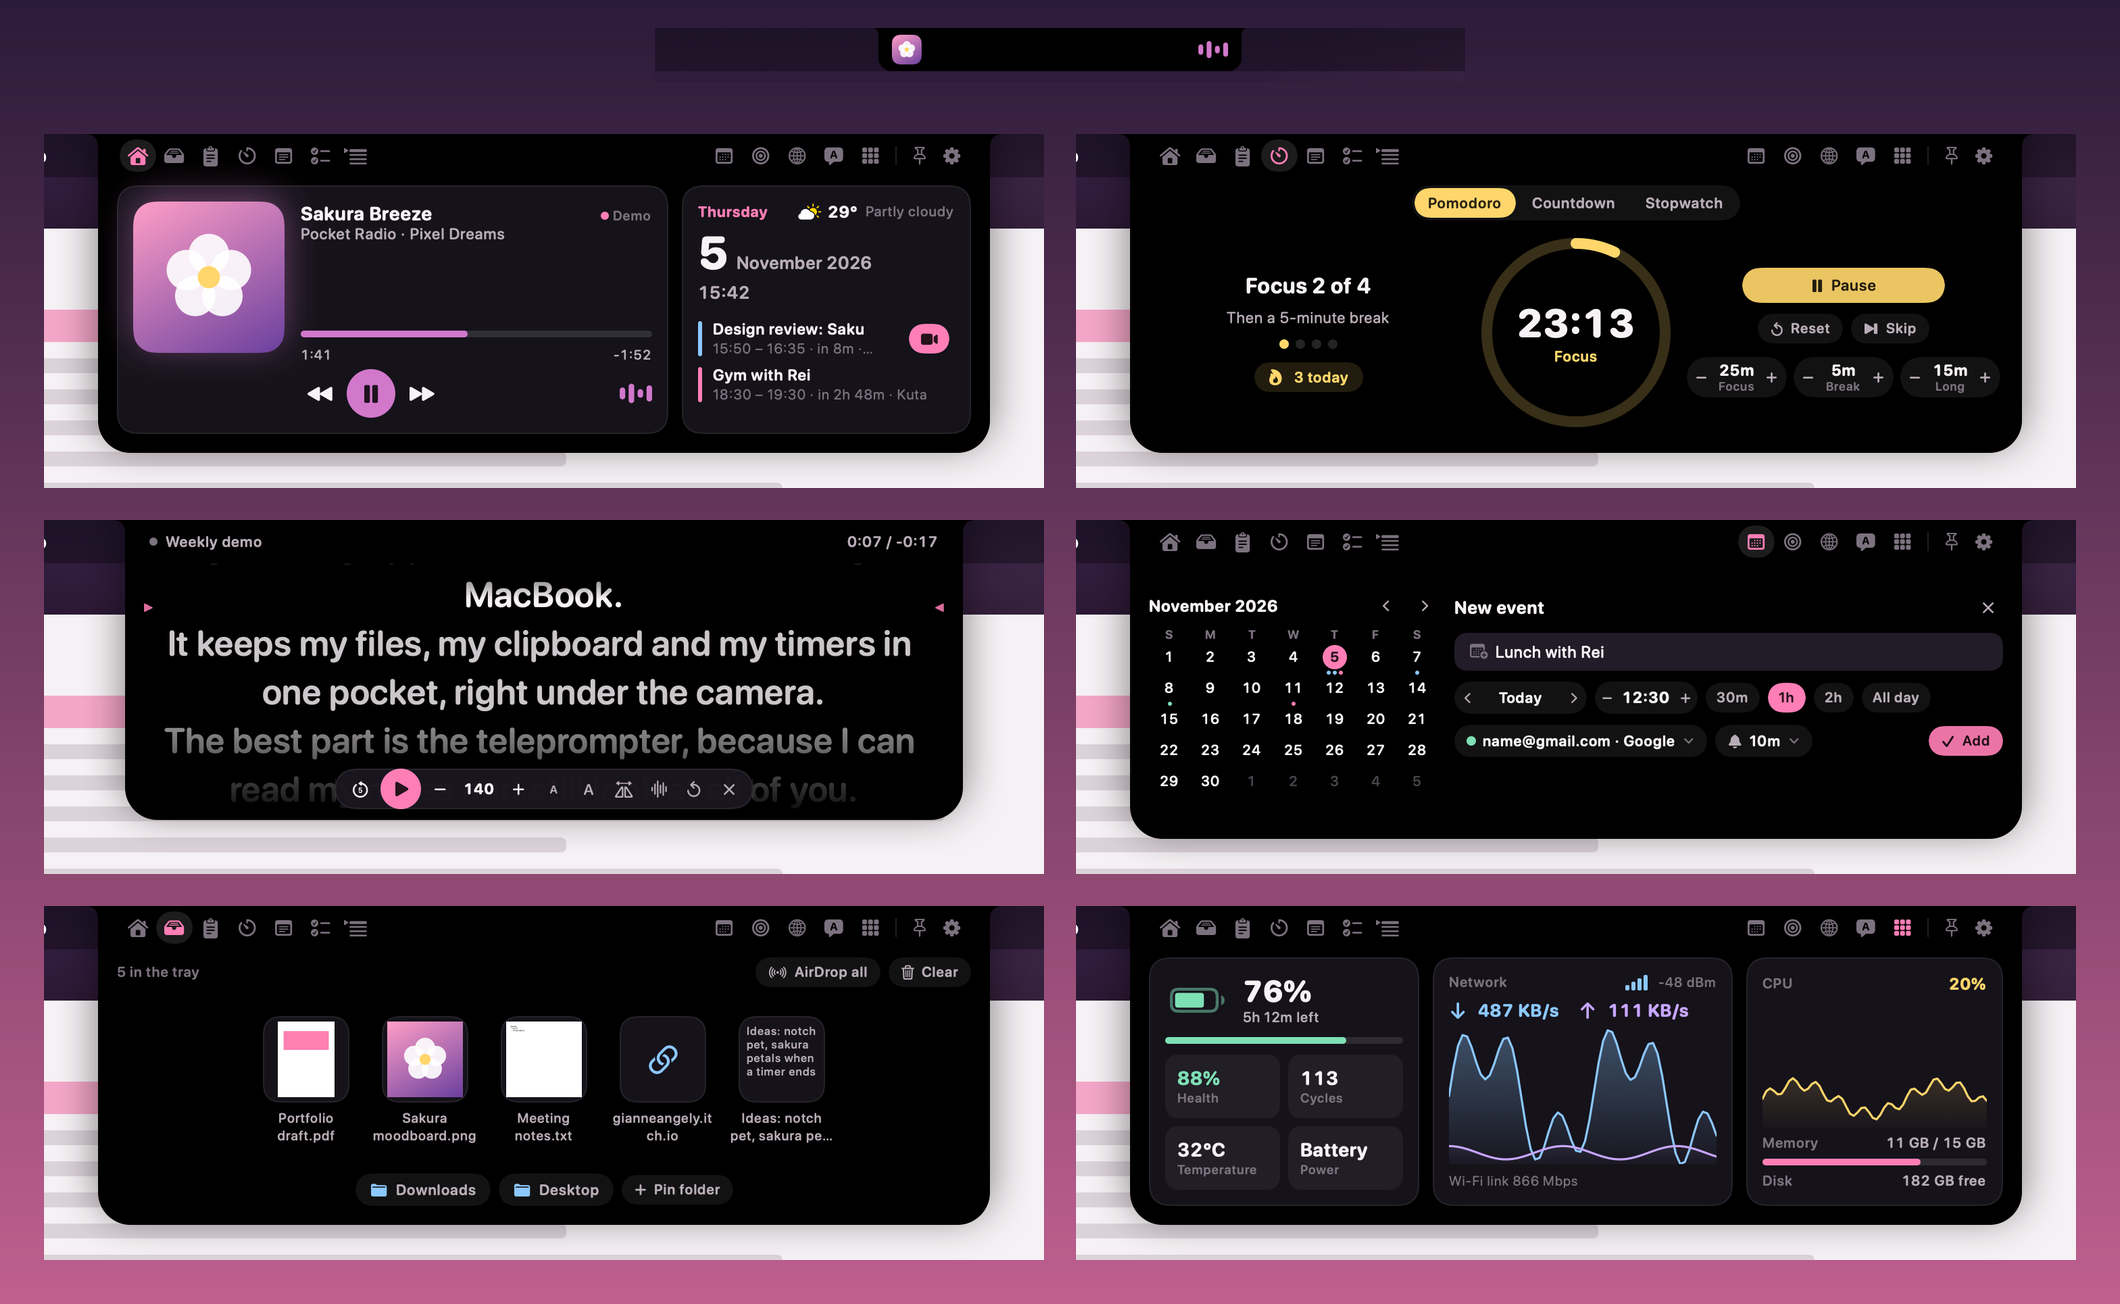
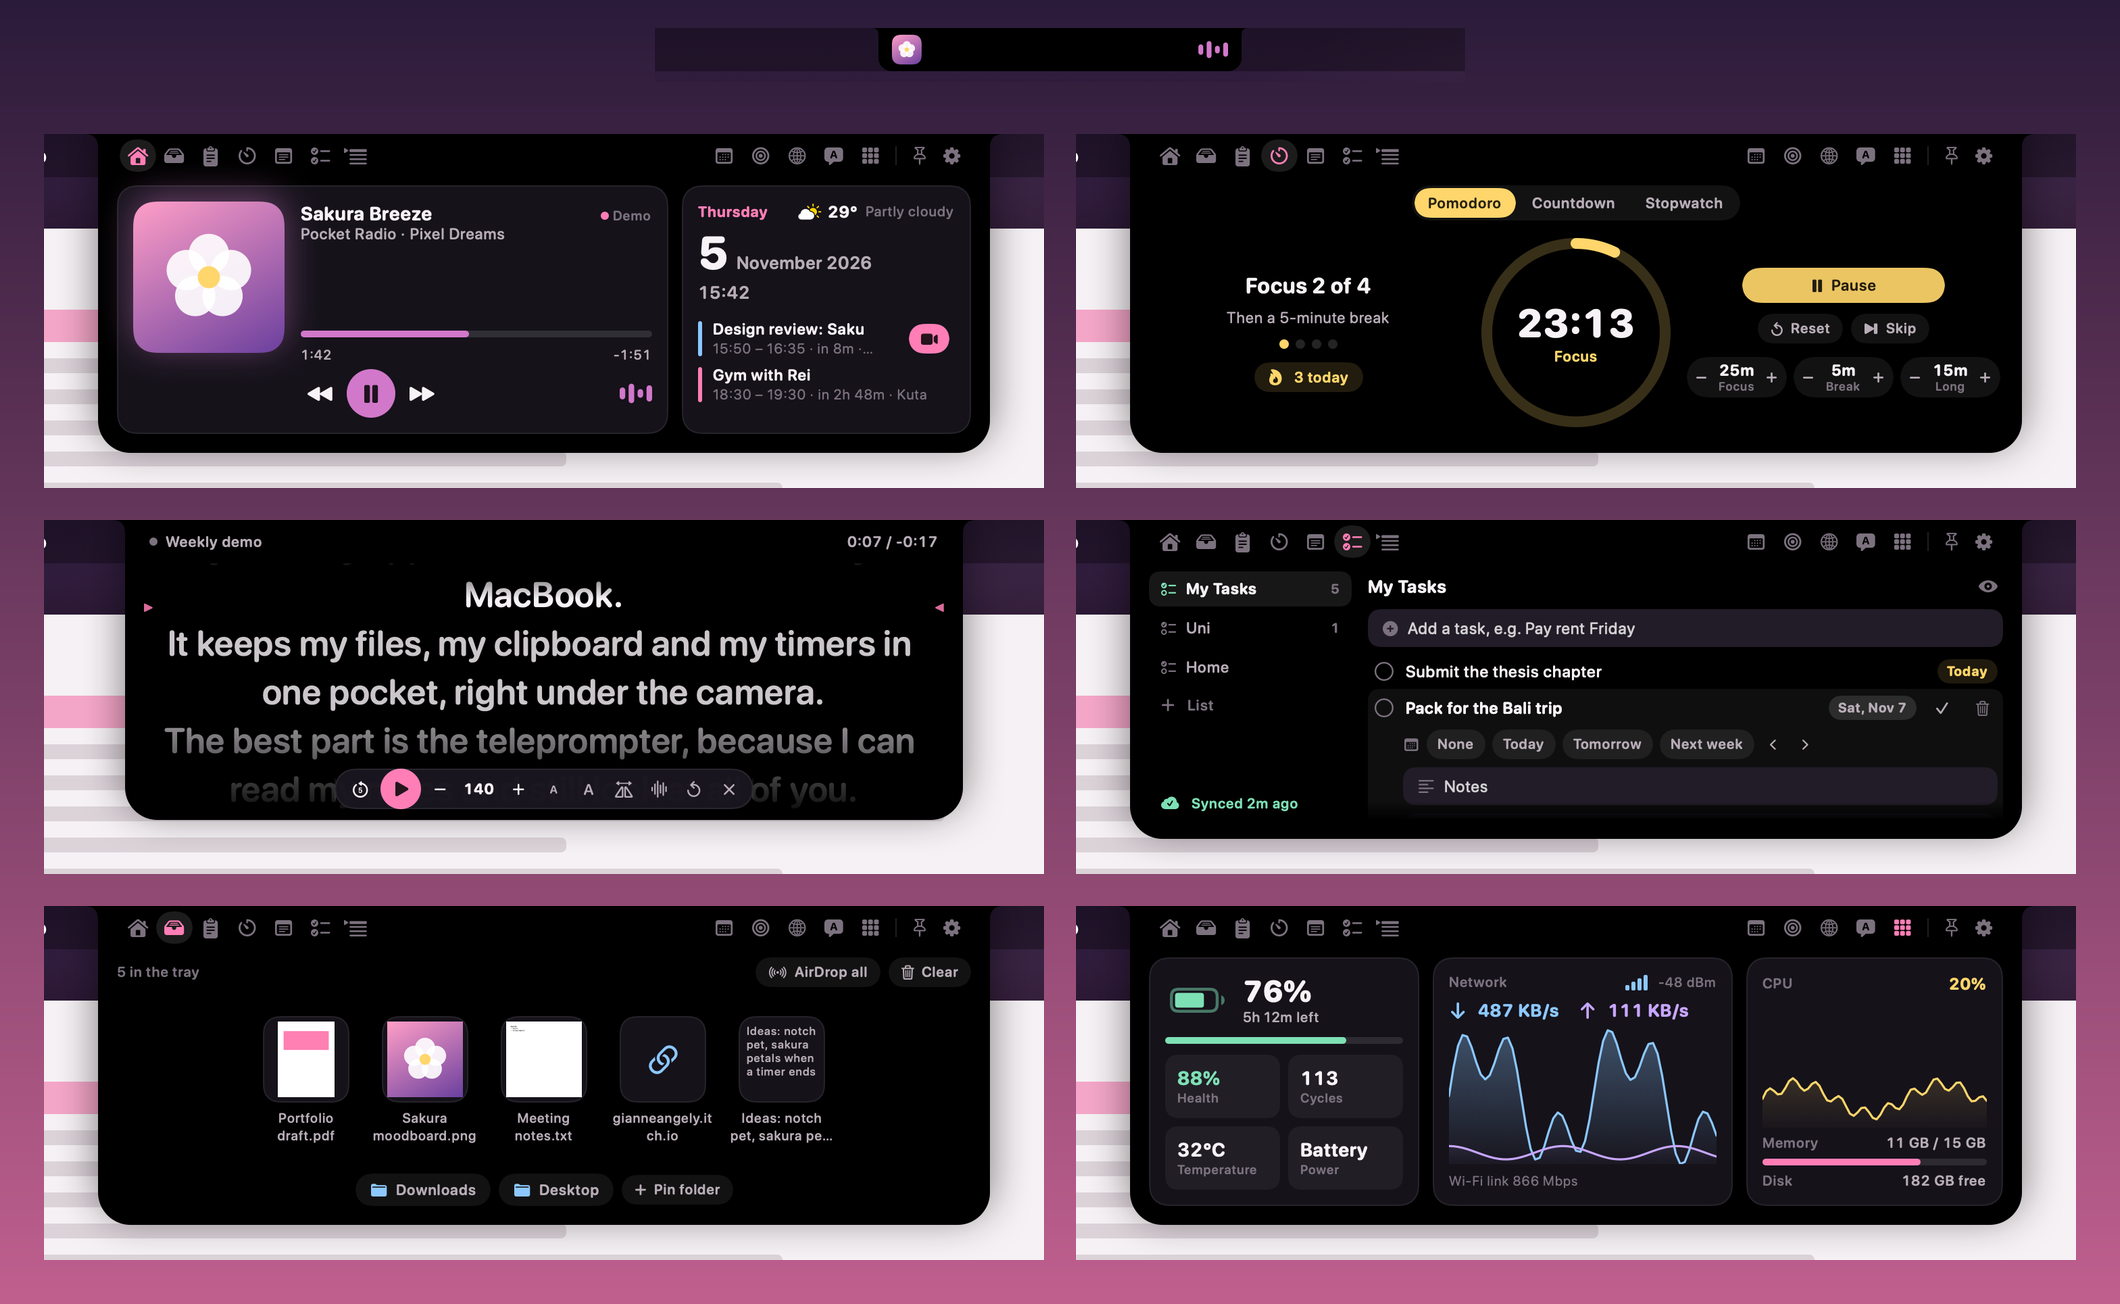
Get the README ready for launch
The README mentions the to-do list and Google Tasks, links the website
and privacy policy, explains the 7-day sign-in in Testing mode, and
stops naming an old zip. The screenshot swaps the new-event tile for
the To-do tab synced with Google. SECURITY.md says the Google sign-in
tokens live in the Keychain too, and the 1.2.1 notes mention the
updated setup guide.

Changed region(s): [[0.5292, 0.3988, 0.9651, 0.6442], [0.5604, 0.6135, 0.6226, 0.6442], [0.8094, 0.3988, 0.8406, 0.4294]]

diff --git a/tools/make-previews.py b/tools/make-previews.py
@@ -29,7 +29,7 @@ for n in settings:
     Image.open(os.path.join(src, n + ".png")).convert("RGB").save(os.path.join(out, n + ".png"))
 
 # 2. README screenshot: six states on a soft backdrop, 2 columns.
-picks = ["open-home-full", "open-timers-pomodoro", "prompter-reading", "open-calendar-new-event", "open-tray", "open-system"]
+picks = ["open-home-full", "open-timers-pomodoro", "prompter-reading", "open-todo-google", "open-tray", "open-system"]
 TW, TH = 1000, 354           # each tile, about 2048 px wide in all
 tiles = [crop(n, 370, 262).resize((TW, TH), Image.LANCZOS) for n in picks]
 gap, pad = 32, 44

diff --git a/README.md b/README.md
@@ -1,24 +1,25 @@
 # 🌸 Saku
 
-Saku turns the MacBook notch into **a little pocket of tools**. Hover the camera and it blooms open with your music, timers, files, clipboard, calendar, an AI assistant and a teleprompter that scrolls right under the lens. It's native, free, and needs no account.
+Saku turns the MacBook notch into **a little pocket of tools**. Hover the camera and it blooms open with your music, timers, files, clipboard, calendar, a to-do list, an AI assistant and a teleprompter that scrolls right under the lens. It's native, free, and needs no account.
 
-![Saku opening from the notch: music, timers, the teleprompter, calendar and the All features page](previews/saku-tour.gif)
+![Saku opening from the notch: music, timers, the teleprompter, calendar, the to-do list and the All features page](previews/saku-tour.gif)
 
-**[Download Saku](https://github.com/GianneAngely/saku/releases/latest)** for macOS 26 or later, on Apple silicon and Intel Macs. Every feature is free.
+**[Download Saku](https://github.com/GianneAngely/saku/releases/latest)** for macOS 26 or later, on Apple silicon and Intel Macs. Every feature is free. Website and privacy policy: [gianneangely.github.io/saku-site](https://gianneangely.github.io/saku-site/).
 
 ## Why Saku
 
 - **Everything is free.** Music control, timers and the rest aren't behind a paid upgrade.
 - **A teleprompter under the camera.** Read your script while looking at the lens; it can follow your voice and is hidden from screen sharing.
 - **Your Google Calendar,** through macOS Internet Accounts. Saku never sees your Google password.
+- **Your Google Tasks.** A to-do list with subtasks and due dates that syncs both ways with Google Tasks, so tasks from your phone show up in the notch.
 - **Nothing to hunt for.** The grid button lists every feature and where it lives, with search in English and Bahasa Indonesia.
 - **Private and light.** No account, no analytics, about 0.02% CPU and 28 MB of memory at rest.
 
-![Six states of Saku: Home with music and today's events, the Pomodoro timer, the teleprompter, a new calendar event, the file tray and battery health](screenshot.png)
+![Six states of Saku: Home with music and today's events, the Pomodoro timer, the teleprompter, the to-do list synced with Google Tasks, the file tray and battery health](screenshot.png)
 
 ## Install
 
-1. Download `Saku-1.1.0.zip` from [Releases](https://github.com/GianneAngely/saku/releases/latest), unzip it and drag **Saku** into **Applications**.
+1. Download the latest `Saku-x.y.z.zip` from [Releases](https://github.com/GianneAngely/saku/releases/latest), unzip it and drag **Saku** into **Applications**.
 2. Open it. macOS says it can't check Saku for malware, because Saku isn't notarized (that needs a paid Apple developer account). Click **Done**, open **System Settings › Privacy & Security**, scroll down and click **Open Anyway** next to Saku. You only do this once.
 3. Hover the notch. The welcome tour shows the basics.
 
@@ -104,6 +105,8 @@ Saku never asks at launch. Each prompt appears the first time you use the featur
 - Google Tasks sync uses your own Google OAuth client and asks only for your tasks. Its token stays in the Keychain.
 - The teleprompter is always hidden from screen sharing and screenshots; the whole notch can be too (Settings › General).
 
+The full [privacy policy](https://gianneangely.github.io/saku-site/privacy.html) covers every detail, including how Saku uses Google Tasks data.
+
 ## FAQ
 
 <details>
@@ -139,7 +142,7 @@ Settings › Calendar › **Connect Google Calendar**. macOS opens Internet Acco
 <details>
 <summary><b>Can the to-do list sync with Google Tasks?</b></summary>
 
-Yes. Create your own free OAuth client in Google Cloud (about 10 minutes, once), import its JSON in Settings › To-do and sign in. The step-by-step guide is in [docs/google-tasks-setup.md](docs/google-tasks-setup.md). Without it, To-do keeps your tasks on this Mac.
+Yes. Create your own free OAuth client in Google Cloud (about 10 minutes, once), import its JSON in Settings › To-do and sign in. The step-by-step guide is in [docs/google-tasks-setup.md](docs/google-tasks-setup.md). While your Google Cloud app is in Testing, Google asks you to sign in again every 7 days; publishing it removes that, and the guide explains both. Without a client, To-do keeps your tasks on this Mac.
 </details>
 
 <details>
@@ -164,7 +167,7 @@ Quit Saku from its menu bar icon (the little blossom), then move it to the Trash
 
 ```bash
 swift build
-.build/debug/Saku --selftest      # 400+ logic checks: silent, no windows, scratch data
+.build/debug/Saku --selftest      # 470+ logic checks: silent, no windows, scratch data
 .build/debug/Saku --livetest      # a few seconds of the real notch panel with a simulated pointer
 .build/debug/Saku --render out/   # every state as a 2x PNG, offscreen
 python3 tools/make-previews.py out/

diff --git a/SECURITY.md b/SECURITY.md
@@ -1,6 +1,6 @@
 # Security
 
-Saku runs only on your Mac. It has no servers and no accounts, and it keeps your API keys in the macOS Keychain.
+Saku runs only on your Mac. It has no servers and no accounts, and it keeps your API keys and Google sign-in tokens in the macOS Keychain.
 
 ## Reporting a problem
 

diff --git a/CHANGELOG.md b/CHANGELOG.md
@@ -3,6 +3,7 @@
 ## 1.2.1
 
 - Settings › To-do shows in the sidebar. Before, it only opened from the To-do tab.
+- The Google Tasks setup guide explains Testing and In production, and links Saku's privacy policy.
 
 ## 1.2.0
 
